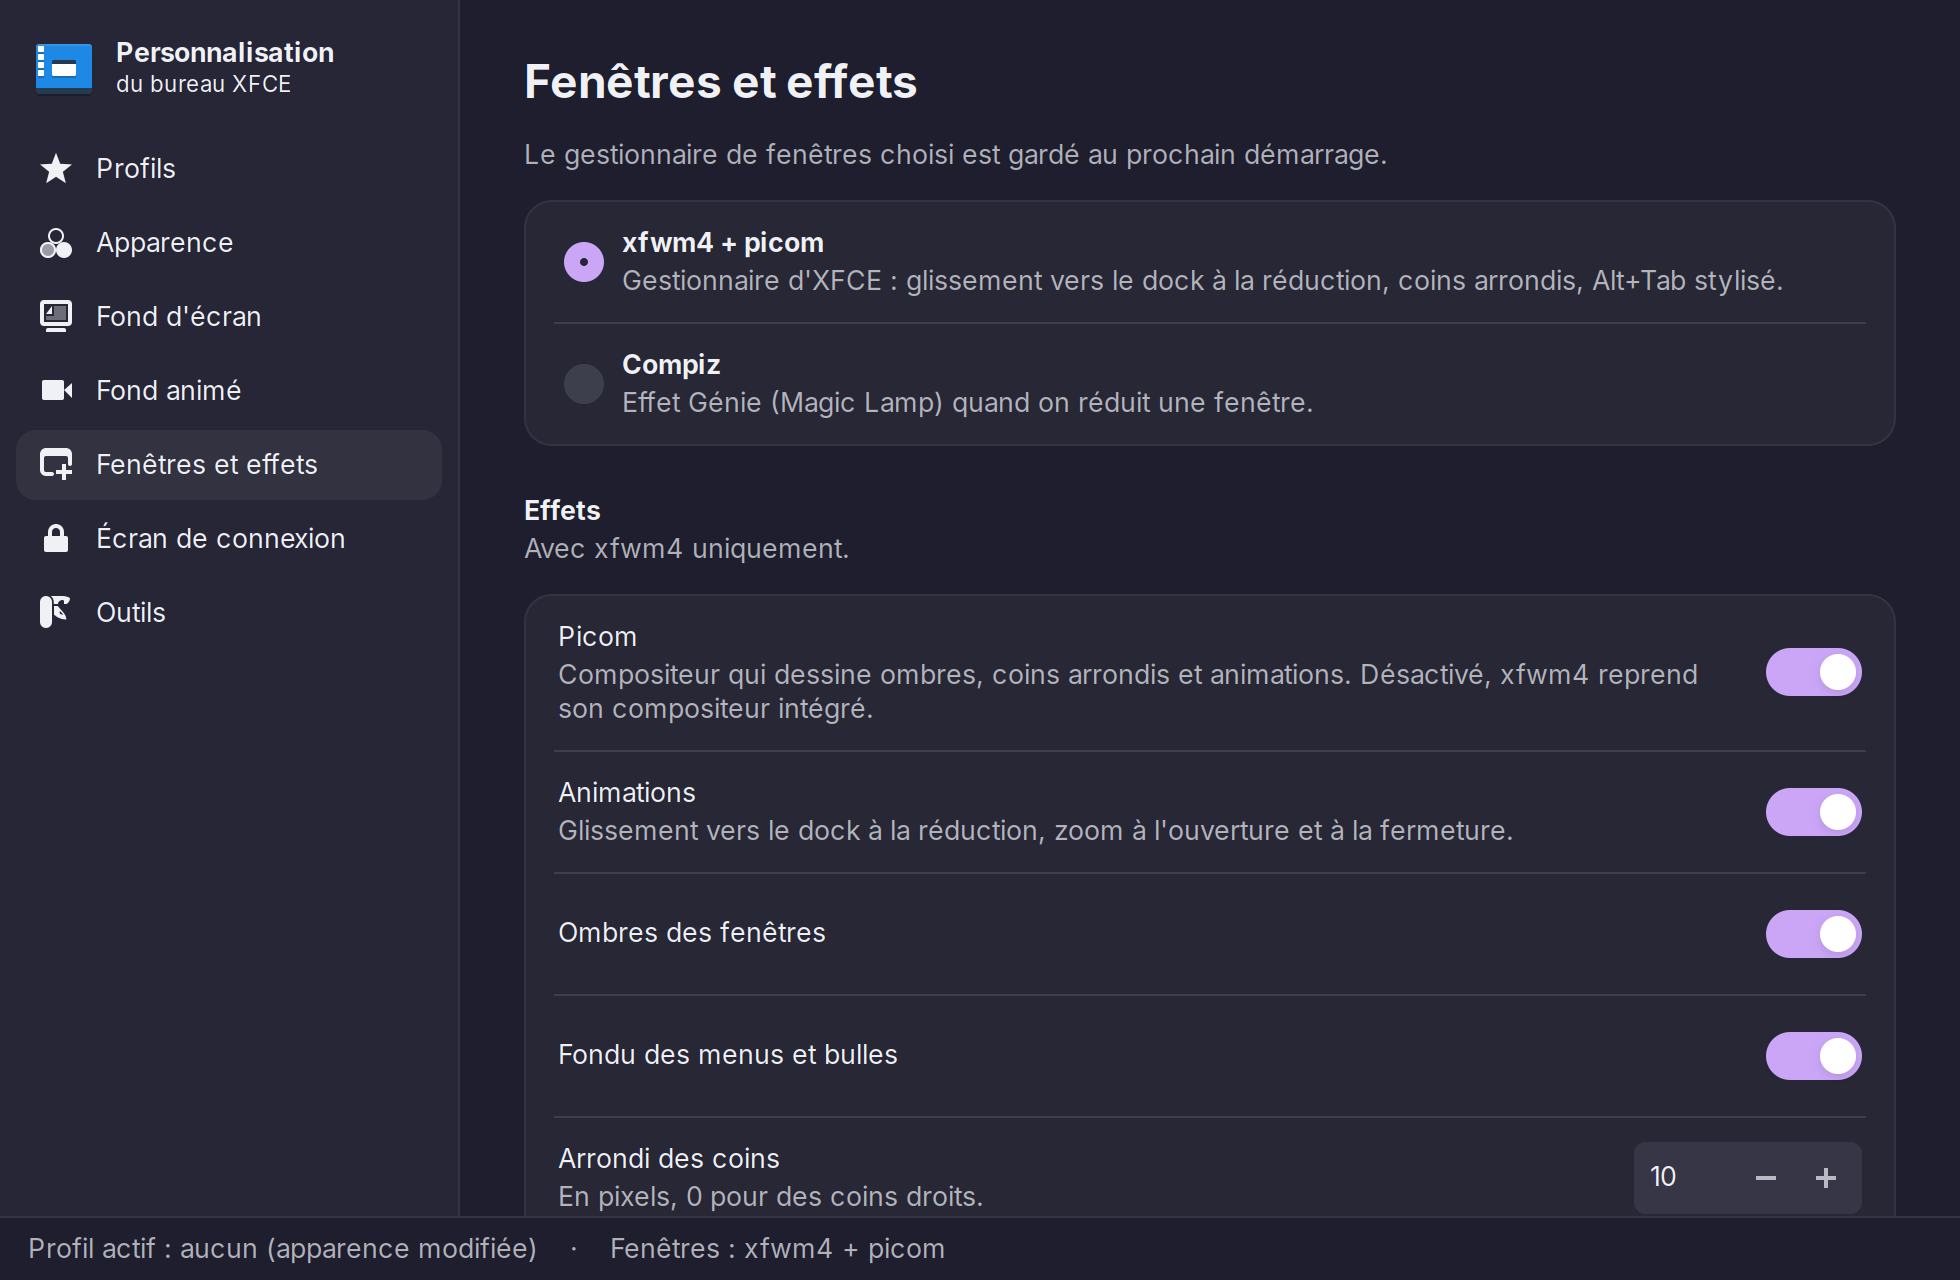
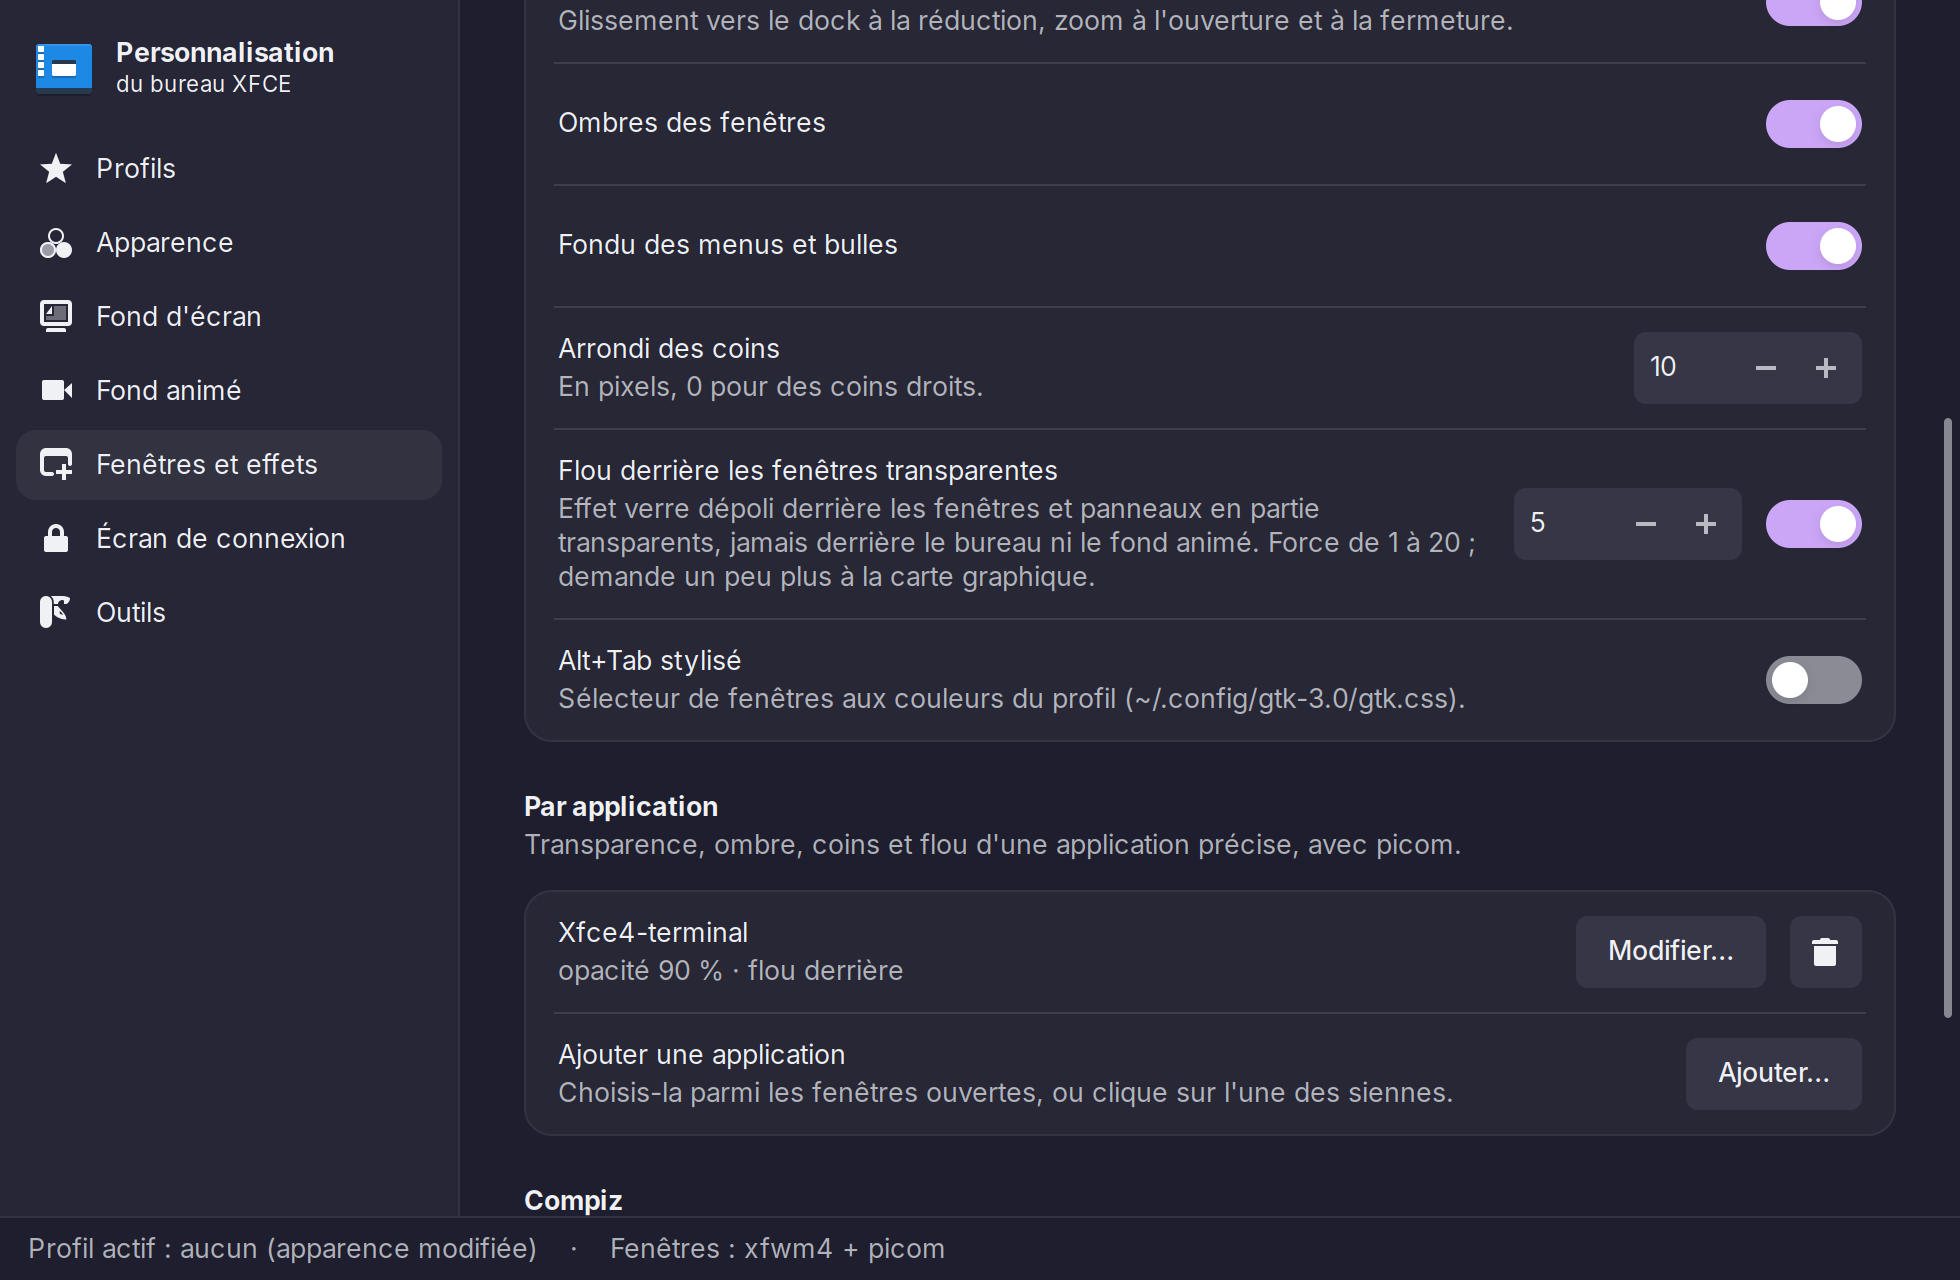
Captures de l'interface pour la 0.2.0
Pages Profils (export et import) et Fenêtres et effets (flou, réglages
par application, avec une règle d'exemple), dessinées hors écran depuis
une copie propre du dépôt et un dossier personnel temporaire : ni image
ni chemin personnels. Textes de remplacement du README mis à jour.

diff --git a/README.md b/README.md
@@ -4,7 +4,7 @@ Personnalisation du bureau XFCE (Debian 13, XFCE 4.20) : profils d'apparence com
 partager, effets de fenêtres avec picom (flou, règles par application) ou Compiz, écran de
 connexion Catppuccin, fond d'écran animé, et une interface graphique qui regroupe le tout.
 
-![Page Profils de l'interface « Personnalisation du bureau »](captures/profils.png)
+![Page Profils de l'interface « Personnalisation du bureau » : appliquer, exporter ou importer un profil](captures/profils.png)
 
 ## Contenu
 
@@ -68,7 +68,7 @@ Chaque commande a sa page de manuel, en français : `man bureau-reglages`, `man 
 
 | Apparence | Fenêtres et effets |
 |---|---|
-| ![Page Apparence : thèmes, barre de titre, icônes, curseur et polices](captures/apparence.png) | ![Page Fenêtres et effets : xfwm4 avec picom ou Compiz, et les effets de picom](captures/fenetres.png) |
+| ![Page Apparence : thèmes, barre de titre, icônes, curseur et polices](captures/apparence.png) | ![Page Fenêtres et effets : effets de picom, flou et réglages par application](captures/fenetres.png) |
 
 ## Licence
 
